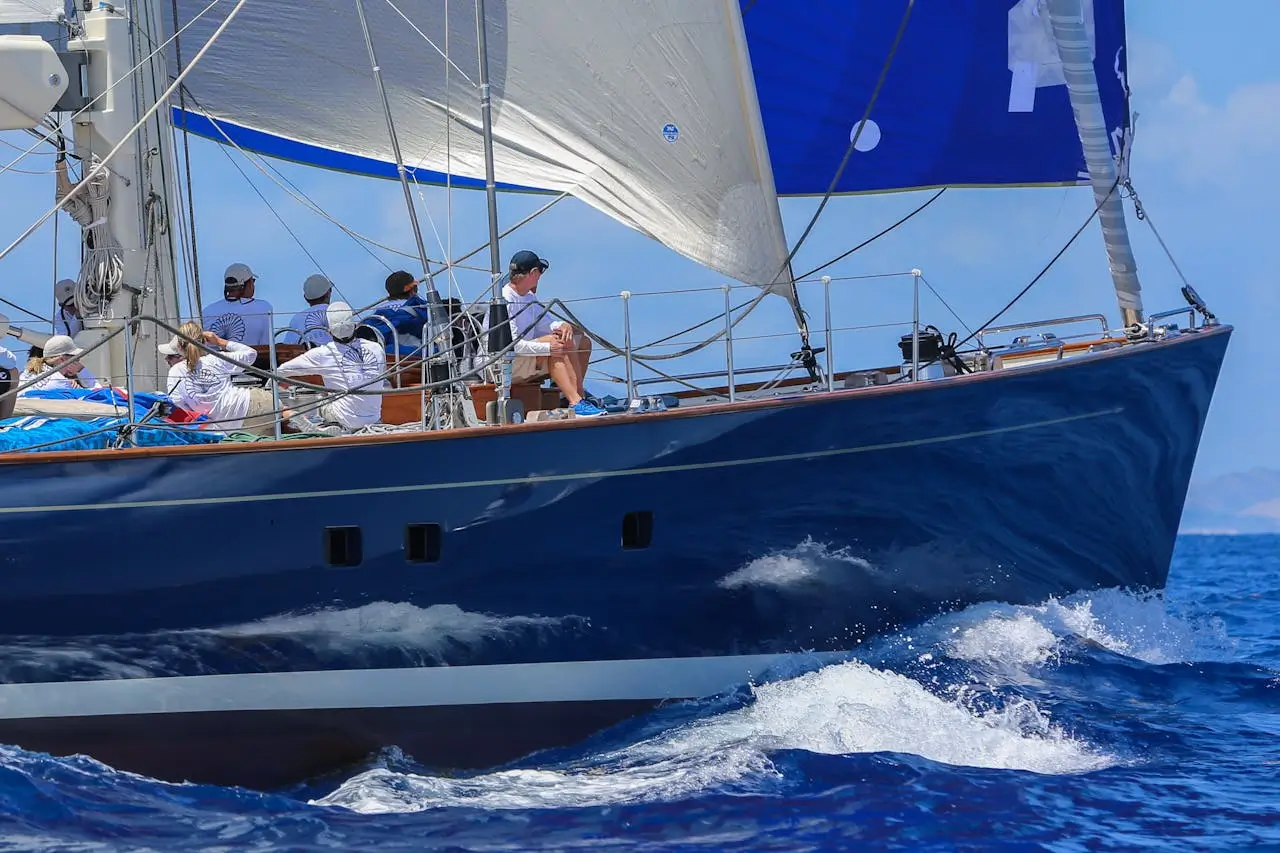
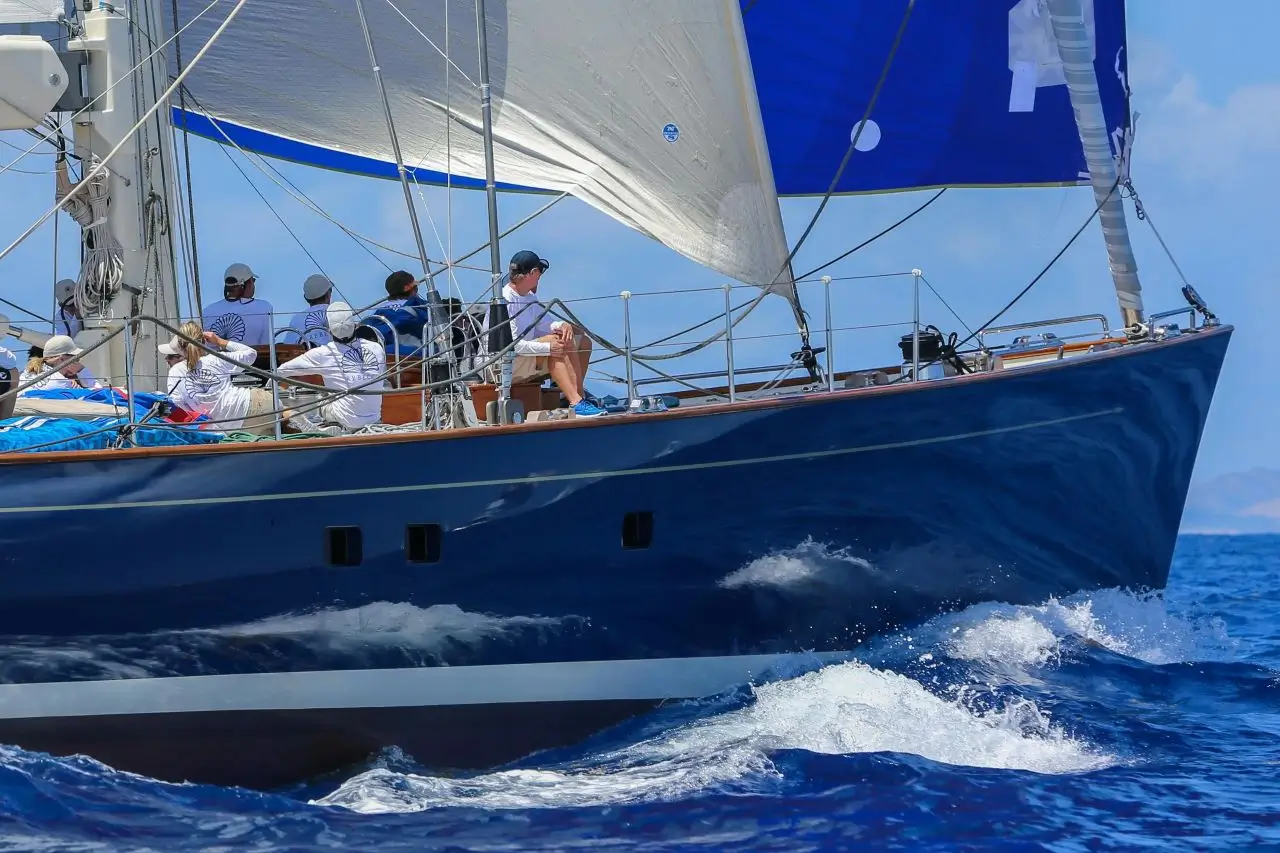
Style/Feat: added hero image variations to home page for different vieport settings to increase lighthouse score

diff --git a/templates/pages/home.html b/templates/pages/home.html
@@ -10,10 +10,22 @@
 <!-- Hero Section -->
 <section class="hero position-relative" aria-labelledby="hero-heading">
     <picture>
-        <source srcset="/static/images/crewfinder_hero.webp" type="image/webp">
-        <img src="/static/images/crewfinder_hero.webp" alt="Discover your next sailing adventure with CrewFinder"
-             class="hero-img" width="1280"  loading="eager" fetchpriority="high">
-    </picture>
+        <picture>
+            <source srcset="/static/images/crewfinder_hero_600.webp 600w, 
+                            /static/images/crewfinder_hero_768.webp 768w, 
+                            /static/images/crewfinder_hero.webp 1280w" 
+                    sizes="(max-width: 600px) 100vw, 
+                           (max-width: 768px) 100vw, 
+                           1280px" 
+                    type="image/webp">
+            <img src="/static/images/crewfinder_hero.webp" 
+                 alt="Discover your next sailing adventure with CrewFinder" 
+                 class="hero-img" 
+                 width="1280" 
+                 height="720" 
+                 loading="eager" 
+                 fetchpriority="high">
+        </picture>
     <div
         class="hero-overlay d-flex align-items-center justify-content-center text-center position-absolute top-0 start-0 w-100 h-100">
         <div>
